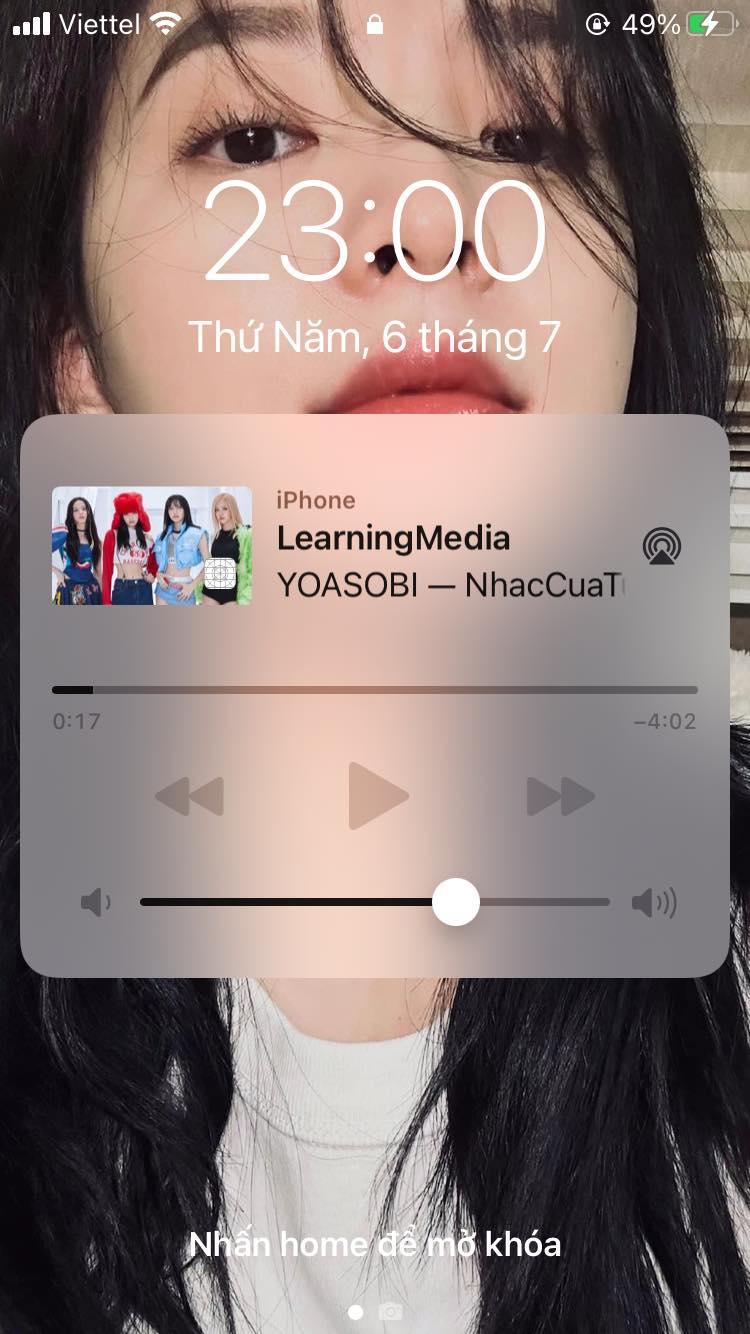
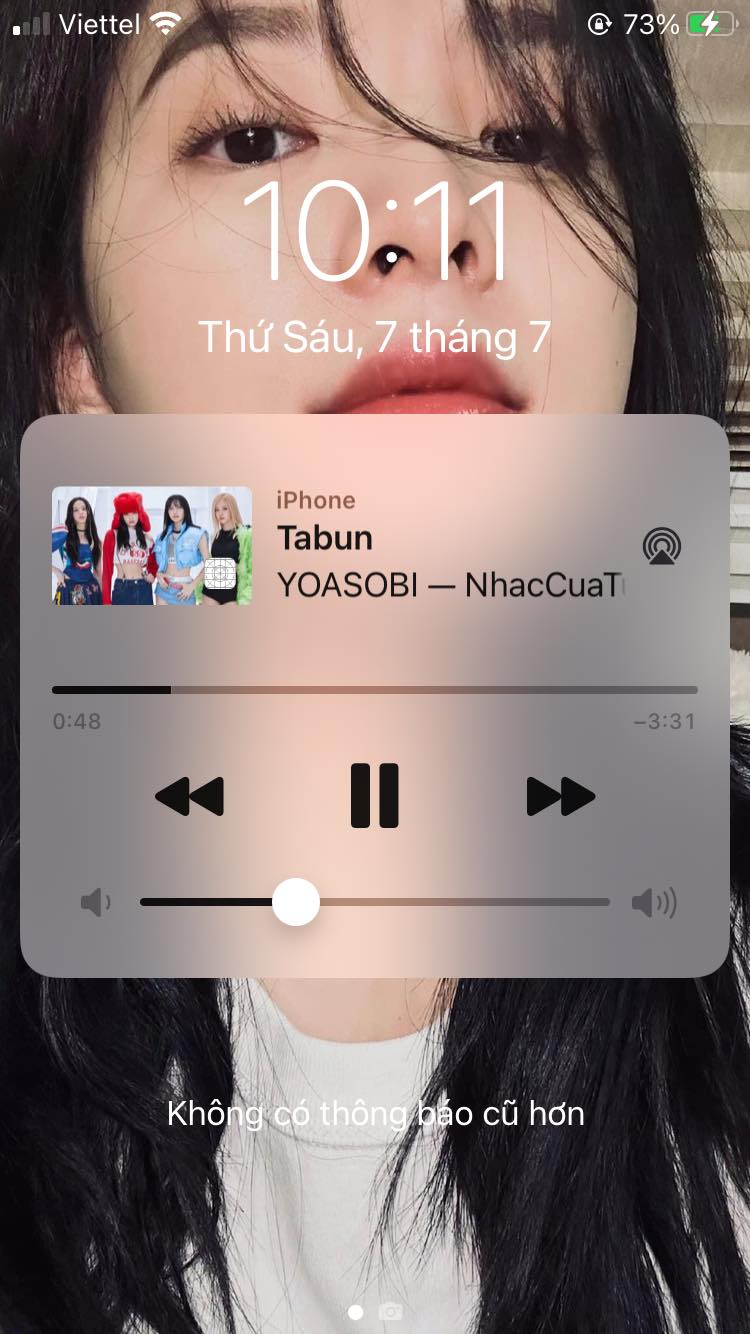
Update ReadMe

diff --git a/LearningMedia/ViewController.swift b/LearningMedia/ViewController.swift
@@ -94,7 +94,7 @@ class ViewController: UIViewController {
     func setupRemoteComanderView() {
         guard let item = MPMediaQuery().items?.first else {return}
         var playingInfo = [String: Any]()
-        playingInfo[MPMediaItemPropertyArtist] = item.title
+        playingInfo[MPMediaItemPropertyTitle] = item.title
         playingInfo[MPMediaItemPropertyArtist] = item.artist
         playingInfo[MPMediaItemPropertyAlbumTitle] = item.albumTitle
         playingInfo[MPMediaItemPropertyPlaybackDuration] = item.playbackDuration
@@ -114,7 +114,7 @@ class ViewController: UIViewController {
 
         guard let item = MPMediaQuery().items?.first else {return}
         var playingInfo = [String: Any]()
-        playingInfo[MPMediaItemPropertyArtist] = item.title
+        playingInfo[MPMediaItemPropertyTitle] = item.title
         playingInfo[MPMediaItemPropertyArtist] = item.artist
         playingInfo[MPMediaItemPropertyAlbumTitle] = item.albumTitle
         playingInfo[MPMediaItemPropertyPlaybackDuration] = item.playbackDuration
@@ -132,7 +132,7 @@ class ViewController: UIViewController {
         player.pause()
         guard let item = MPMediaQuery().items?.first else {return}
         var playingInfo = [String: Any]()
-        playingInfo[MPMediaItemPropertyArtist] = item.title
+        playingInfo[MPMediaItemPropertyTitle] = item.title
         playingInfo[MPMediaItemPropertyArtist] = item.artist
         playingInfo[MPMediaItemPropertyAlbumTitle] = item.albumTitle
         playingInfo[MPMediaItemPropertyPlaybackDuration] = item.playbackDuration

diff --git a/ReadMe.md b/ReadMe.md
@@ -335,7 +335,7 @@ Hiện tại ta đã nhận được các event, giờ ta sẽ custom `View VewM
 func setupRemoteComanderView() {
     guard let item = MPMediaQuery().items?.first else {return}
     var playingInfo = [String: Any]()
-    playingInfo[MPMediaItemPropertyArtist] = item.title
+    playingInfo[MPMediaItemPropertyTitle] = item.title
     playingInfo[MPMediaItemPropertyArtist] = item.artist
     playingInfo[MPMediaItemPropertyAlbumTitle] = item.albumTitle
     playingInfo[MPMediaItemPropertyPlaybackDuration] = item.playbackDuration
@@ -379,7 +379,7 @@ func playMedia() {
 
         guard let item = MPMediaQuery().items?.first else {return}
         var playingInfo = [String: Any]()
-        playingInfo[MPMediaItemPropertyArtist] = item.title
+        playingInfo[MPMediaItemPropertyTitle] = item.title
         playingInfo[MPMediaItemPropertyArtist] = item.artist
         playingInfo[MPMediaItemPropertyAlbumTitle] = item.albumTitle
         playingInfo[MPMediaItemPropertyPlaybackDuration] = item.playbackDuration
@@ -397,7 +397,7 @@ func playMedia() {
         player.pause()
         guard let item = MPMediaQuery().items?.first else {return}
         var playingInfo = [String: Any]()
-        playingInfo[MPMediaItemPropertyArtist] = item.title
+        playingInfo[MPMediaItemPropertyTitle] = item.title
         playingInfo[MPMediaItemPropertyArtist] = item.artist
         playingInfo[MPMediaItemPropertyAlbumTitle] = item.albumTitle
         playingInfo[MPMediaItemPropertyPlaybackDuration] = item.playbackDuration
